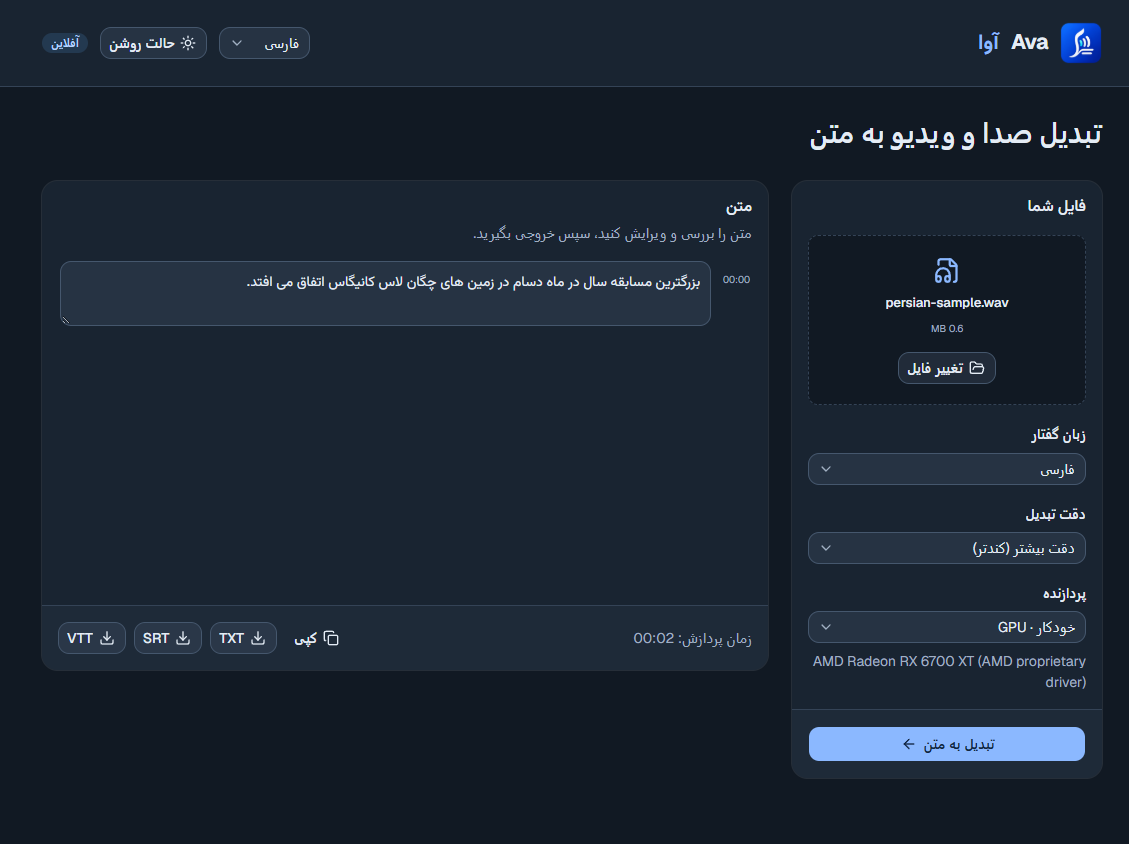
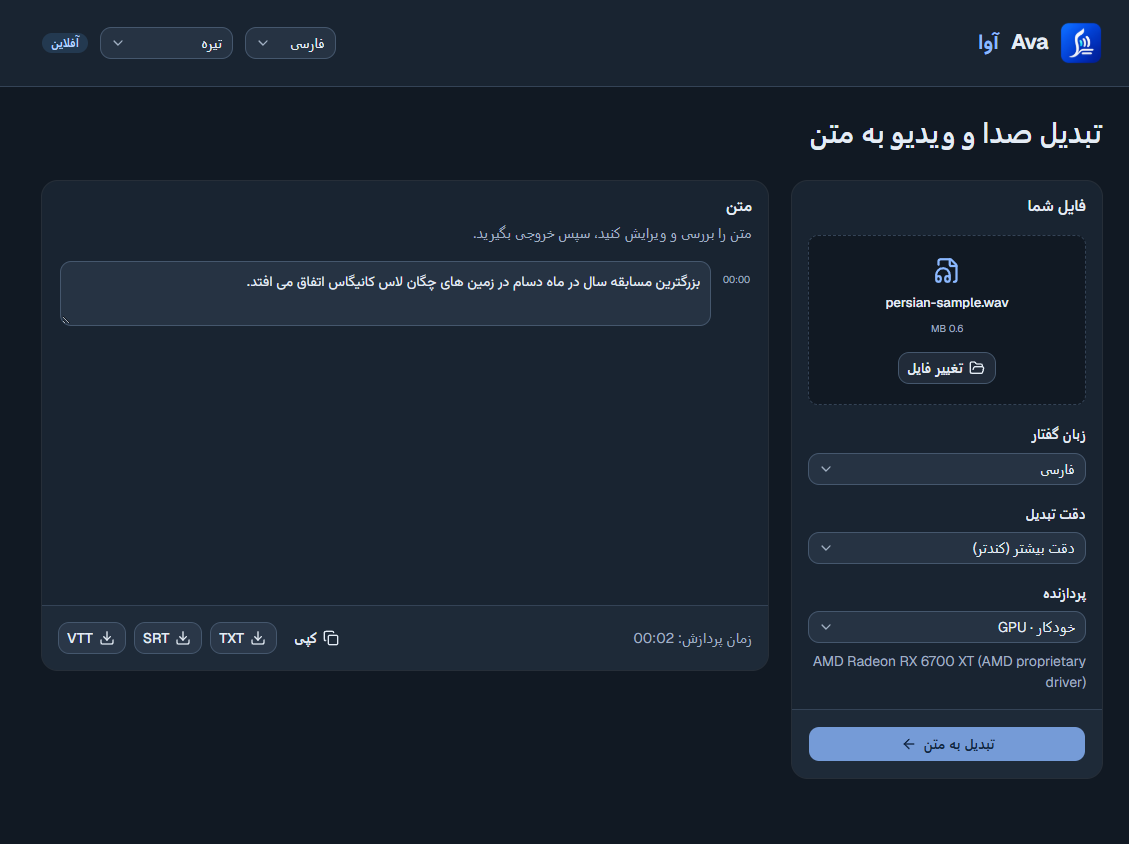
fix: keep theme selection and appearance in sync
Do not persist the initial OS theme as a manual preference. Follow live system changes, apply validated theme values before rendering, and make the selected preference explicit.

Changed region(s): [[0.713, 0.8626, 0.961, 0.9242], [0.093, 0.0308, 0.31, 0.0616]]

diff --git a/src/App.tsx b/src/App.tsx
@@ -1,5 +1,5 @@
 import { useEffect, useRef, useState } from 'react'
-import { Moon, Sun, AudioLines, FolderOpen, FileAudio, ArrowRight, Copy, Download, Check, Square, CircleAlert, FileText } from 'lucide-react'
+import { AudioLines, FolderOpen, FileAudio, ArrowRight, Copy, Download, Check, Square, CircleAlert, FileText } from 'lucide-react'
 import { Button } from '@/components/ui/button'
 import { Badge } from '@/components/ui/badge'
 import { Card, CardHeader, CardTitle, CardDescription, CardContent, CardFooter } from '@/components/ui/card'
@@ -9,6 +9,7 @@ import { Empty, EmptyHeader, EmptyMedia, EmptyTitle, EmptyDescription } from '@/
 import { Progress, ProgressLabel, ProgressValue } from '@/components/ui/progress'
 import { Alert, AlertTitle, AlertDescription } from '@/components/ui/alert'
 import { Textarea } from '@/components/ui/textarea'
+import { useThemePreference, setThemePreference } from './lib/theme'
 import { formatDuration, estimateRemaining } from './lib/timing'
 import { persian } from './i18n'
 import avaIcon from './assets/ava-icon.png'
@@ -33,8 +34,7 @@ export default function App() {
     document.documentElement.dir = uiLanguage === 'fa' ? 'rtl' : 'ltr'
     localStorage.setItem('ava-ui-language', uiLanguage)
   }, [uiLanguage])
-  const [theme, setTheme] = useState(() => localStorage.getItem('ava-theme') || (matchMedia('(prefers-color-scheme: dark)').matches ? 'dark' : 'light'))
-  useEffect(() => { document.documentElement.classList.toggle('dark', theme === 'dark'); document.documentElement.style.colorScheme = theme; localStorage.setItem('ava-theme', theme) }, [theme])
+  const theme = useThemePreference()
   const [ready, setReady] = useState<boolean | null>(null)
   const [file, setFile] = useState<{ name: string; size: number } | null>(null)
   const [quality, setQuality] = useState(() => localStorage.getItem('ava-quality') || 'accurate')
@@ -92,7 +92,7 @@ export default function App() {
     catch (e) { setError(String(e)) }
   }
   return <div className="app-shell">
-    <header className="topbar"><div className="brand"><img className="brand-icon" src={avaIcon} alt="" /><div><strong>Ava <span lang="fa">آوا</span></strong></div></div><div className="flex items-center gap-3"><NativeSelect aria-label="Interface language / زبان برنامه" value={uiLanguage} onChange={e => setUiLanguage(e.target.value)}><NativeSelectOption value="fa">فارسی</NativeSelectOption><NativeSelectOption value="en">English</NativeSelectOption></NativeSelect><Button variant="outline" onClick={() => setTheme(theme === 'dark' ? 'light' : 'dark')} aria-label={theme === 'dark' ? t("Switch to light mode") : t("Switch to dark mode")}>{theme === 'dark' ? <Sun data-icon="inline-start" /> : <Moon data-icon="inline-start" />}{theme === 'dark' ? t("Light mode") : t("Dark mode")}</Button><Badge variant="secondary">{uiLanguage === 'fa' ? 'آفلاین' : 'Offline'}</Badge></div></header>
+    <header className="topbar"><div className="brand"><img className="brand-icon" src={avaIcon} alt="" /><div><strong>Ava <span lang="fa">آوا</span></strong></div></div><div className="flex items-center gap-3"><NativeSelect aria-label="Interface language / زبان برنامه" value={uiLanguage} onChange={e => setUiLanguage(e.target.value)}><NativeSelectOption value="fa">فارسی</NativeSelectOption><NativeSelectOption value="en">English</NativeSelectOption></NativeSelect><NativeSelect aria-label="Appearance / ظاهر" value={theme} onChange={e => setThemePreference(e.target.value)}><NativeSelectOption value="system">{uiLanguage === 'fa' ? 'پیروی از سیستم' : 'System'}</NativeSelectOption><NativeSelectOption value="light">{uiLanguage === 'fa' ? 'روشن' : 'Light'}</NativeSelectOption><NativeSelectOption value="dark">{uiLanguage === 'fa' ? 'تیره' : 'Dark'}</NativeSelectOption></NativeSelect><Badge variant="secondary">{uiLanguage === 'fa' ? 'آفلاین' : 'Offline'}</Badge></div></header>
     <main>
       <h1>{uiLanguage === 'fa' ? 'تبدیل صدا و ویدیو به متن' : 'Audio and video transcription'}</h1>
       {ready === false ? <Alert variant="destructive"><CircleAlert /><AlertTitle>{t("Local engine needs setup")}</AlertTitle><AlertDescription>{t("Run setup.ps1 in the project folder while connected to the internet, then restart Ava. Transcription works offline after setup.")}</AlertDescription></Alert> : null}

diff --git a/src/lib/theme.ts b/src/lib/theme.ts
@@ -1,0 +1,28 @@
+import { useSyncExternalStore } from 'react'
+export type ThemePreference = 'system' | 'light' | 'dark'
+const media = matchMedia('(prefers-color-scheme: dark)')
+function readPreference(): ThemePreference {
+  const value = localStorage.getItem('ava-theme')
+  return value === 'dark' || value === 'light' ? value : 'system'
+}
+let preference = readPreference()
+const listeners = new Set<() => void>()
+function apply() {
+  const resolved = preference === 'system' ? (media.matches ? 'dark' : 'light') : preference
+  document.documentElement.classList.toggle('dark', resolved === 'dark')
+  document.documentElement.style.colorScheme = resolved
+  document.documentElement.dataset.theme = resolved
+}
+function update() { apply(); listeners.forEach(listener => listener()) }
+media.addEventListener('change', update)
+window.addEventListener('storage', event => { if (event.key === 'ava-theme' || event.key === null) { preference = readPreference(); update() } })
+apply()
+function subscribe(listener: () => void) { listeners.add(listener); return () => { listeners.delete(listener) } }
+export function setThemePreference(value: string) {
+  preference = value === 'dark' || value === 'light' ? value : 'system'
+  localStorage.setItem('ava-theme', preference)
+  update()
+}
+export function useThemePreference() {
+  return useSyncExternalStore(subscribe, () => preference)
+}

diff --git a/README.md b/README.md
@@ -29,7 +29,7 @@ Common inputs include MP3, M4A, WAV, OGG, FLAC, MP4, MKV, MOV, and WebM. Video f
 | Accuracy | **Higher accuracy** uses large-v3 Q5_0. **Faster** uses large-v3-turbo Q5_0. A larger model is slower and does not always give a better result. |
 | Processor | **Auto** uses a detected Vulkan GPU, with CPU fallback. Select **CPU** or **GPU** to choose manually. GPU mode needs a compatible driver. |
 | Interface | **فارسی** uses RTL; **English** uses LTR. This is separate from the recording language. |
-| Appearance | Light and dark modes are available in the header. |
+| Appearance | System (default), Light, and Dark are available in the header on main. System follows OS changes until you choose an override. |
 
 ## Screenshots
 
@@ -41,7 +41,7 @@ A transcript in dark mode, with editing and export controls:
 
 ![Persian transcript in dark mode](docs/screenshots/persian-dark-transcript.png)
 
-Screenshots show the main branch. Elapsed time and estimated time remaining are on main; the 1.1.0 installer predates those timers. The example audio is a public Persian sample from [Google FLEURS](https://huggingface.co/datasets/google/fleurs), not a user's recording.
+Screenshots show the main branch. Timers and the System/Light/Dark selector are on main; the 1.1.0 installer predates those changes. The example audio is a public Persian sample from [Google FLEURS](https://huggingface.co/datasets/google/fleurs), not a user's recording.
 
 ## What to expect
 
